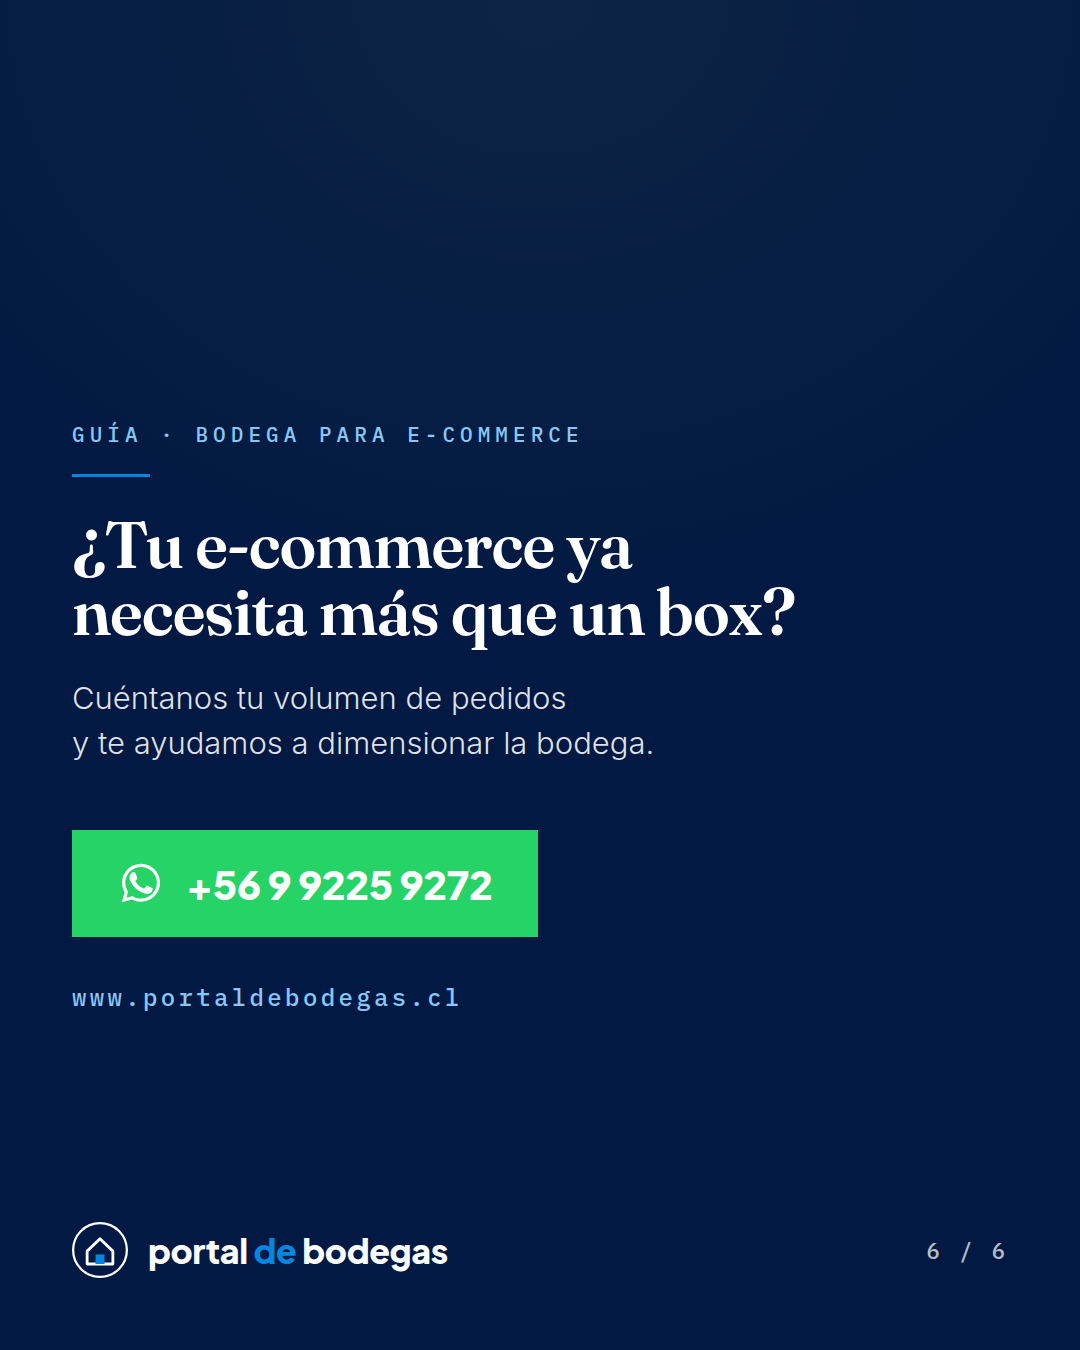
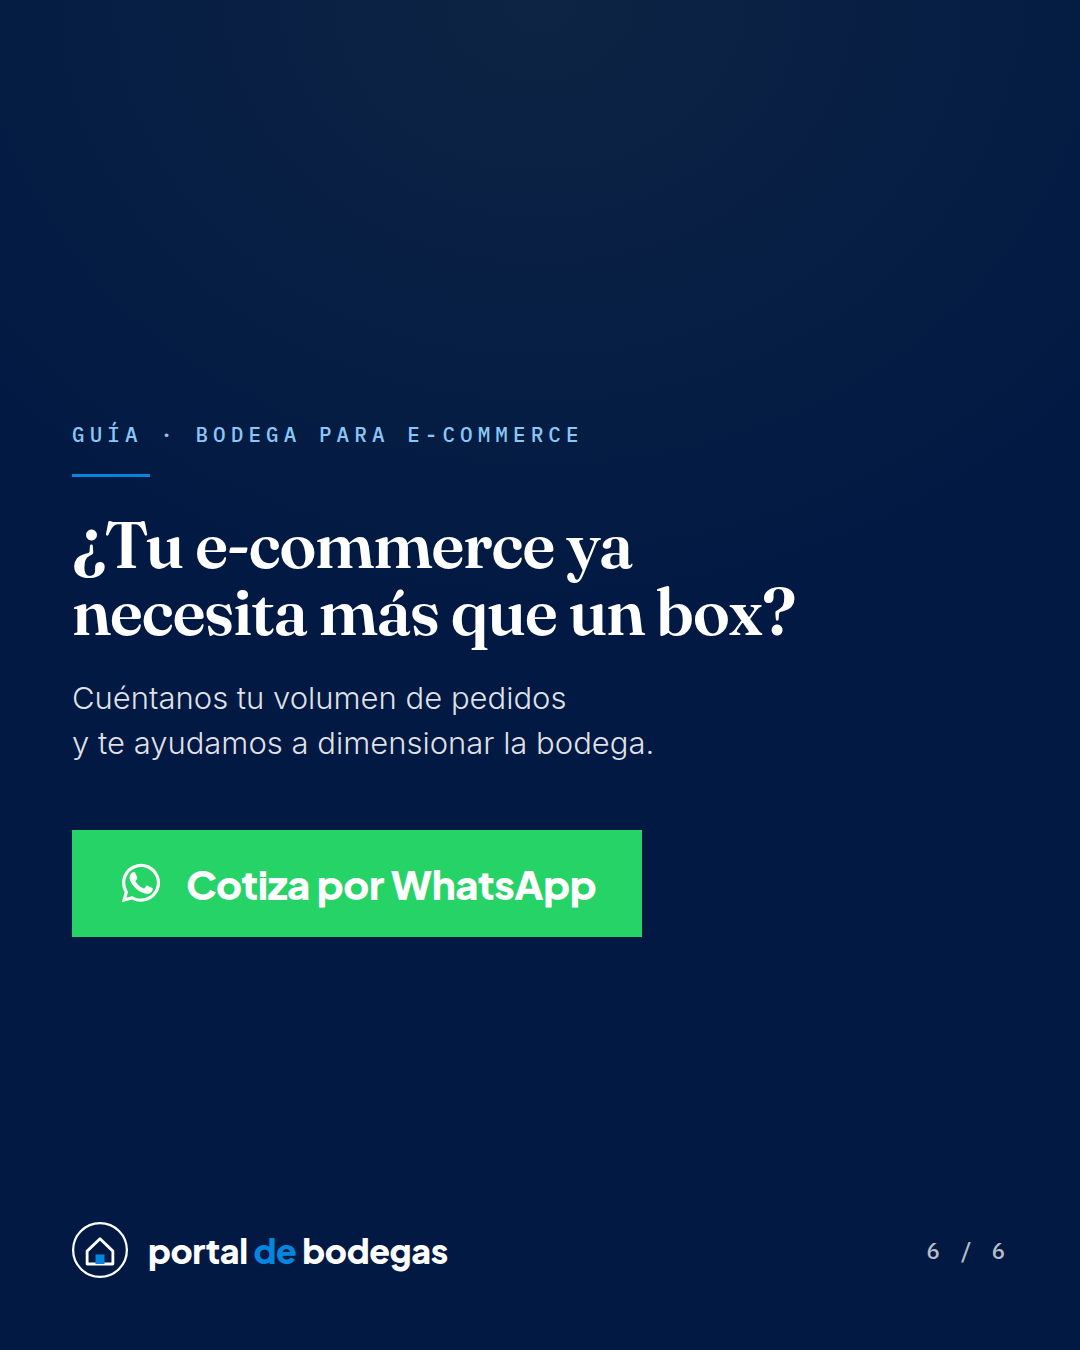
Slides 2 y 3 con datos, y cierre sin teléfono ni web
Slide 2: en vez de dos íconos que solo ilustraban la frase, ahora se
dibuja el fan-out — una entrada consolidada contra muchas salidas
fraccionadas, que es la diferencia operativa real del e-commerce.

Slide 3: en vez de nombrar las zonas (vocabulario evidente), muestra
cuánto espacio ocupa cada una con las cifras ya publicadas en la guía
de cálculo de m² que esta misma guía enlaza — almacenaje 60-70%,
recepción/despacho 10-15%, picking 5-15%, oficina 5-10% — más el
ejemplo concreto de 300 m² de almacenaje → bodega de 420-500 m².

Slide 6: se quita el teléfono y la URL; el botón de WhatsApp es la
única acción, igual que en el post Versus.

Claude-Session: https://claude.ai/code/session_01W7a3UqdkMrKs5FYEeECdXB

Changed region(s): [[0.1833, 0.5911, 0.6111, 0.7156], [0.0611, 0.7156, 0.3667, 0.7467], [0.3972, 0.7156, 0.4278, 0.7467]]

diff --git a/marketing/mockups/ecommerce-set.js b/marketing/mockups/ecommerce-set.js
@@ -114,69 +114,96 @@ const slideCover = () => shell(`
   ${brandRow(false, "1 / 6")}
 </div>`);
 
-// 2 — Concepto: guardar (estático, muted) vs. operar (flujo, navy)
+// 2 — El fan-out: entra consolidado, sale fraccionado. Es la diferencia
+// operativa real entre almacenar y despachar e-commerce, y se puede
+// dibujar — no solo enunciar.
+const FAN_X = 430, FAN_Y = 660;
+const rays = [-27, -18, -9, 0, 9, 18, 27]
+  .map(
+    (deg) => `
+  <div style="position:absolute;left:${FAN_X}px;top:${FAN_Y - 1.5}px;width:290px;height:3px;
+    background:${C.blue};transform:rotate(${deg}deg);transform-origin:left center"></div>
+  <div style="position:absolute;left:${FAN_X}px;top:${FAN_Y - 9}px;width:306px;height:18px;
+    transform:rotate(${deg}deg);transform-origin:left center">
+    <div style="position:absolute;right:0;top:0;width:18px;height:18px;background:${navy};border-radius:2px"></div>
+  </div>`
+  )
+  .join("");
+
 const slideConcept = () => shell(`
 <div class="slide" style="background:#fff">
   ${header("Por qu&eacute; es distinto", NAME)}
   <div style="position:absolute;left:72px;right:72px;top:190px">
-    <h1 style="color:${navy};font-size:58px;line-height:1.18">No es guardar cosas,<br>es operar un negocio</h1>
+    <h1 style="color:${navy};font-size:58px;line-height:1.18">Entra por pallet.<br>Sale por unidad.</h1>
   </div>
 
-  <div style="position:absolute;left:140px;top:580px;width:320px;text-align:center">
-    <div style="display:flex;justify-content:center">${circle(160, C.slate, ICONS.guardar)}</div>
-    <div style="font-family:Inter,sans-serif;font-weight:500;font-size:25px;color:${C.slate};margin-top:34px">Guardar cosas</div>
-  </div>
-  <div style="position:absolute;left:532px;top:650px;width:16px;height:16px;border-radius:50%;background:${C.border}"></div>
-  <div style="position:absolute;left:620px;top:580px;width:320px;text-align:center">
-    <div style="display:flex;justify-content:center">${circle(160, navy, ICONS.operar)}</div>
-    <div style="font-family:Inter,sans-serif;font-weight:600;font-size:25px;color:${navy};margin-top:34px">Operar un negocio</div>
-  </div>
+  <!-- entrada consolidada -->
+  <div style="position:absolute;left:72px;top:${FAN_Y - 4}px;width:96px;height:8px;background:${C.slate}"></div>
+  <div style="position:absolute;left:162px;top:${FAN_Y - 13}px;width:0;height:0;
+    border-top:13px solid transparent;border-bottom:13px solid transparent;border-left:18px solid ${C.slate}"></div>
 
-  <div style="position:absolute;left:72px;right:72px;top:920px;text-align:center">
+  <!-- la bodega -->
+  <div style="position:absolute;left:196px;top:${FAN_Y - 90}px;width:234px;height:180px;background:${navy};
+    border-radius:8px;box-shadow:0 18px 36px rgba(1,25,67,.22)"></div>
+
+  <!-- salida fraccionada -->
+  ${rays}
+
+  <div style="position:absolute;left:72px;right:72px;top:1000px">
     <div style="font-family:Inter,sans-serif;font-weight:400;font-size:29px;color:${C.slate};line-height:1.5">
-      Entra inventario, pero sobre todo sale &mdash; pedido por<br>pedido, todos los d&iacute;as.
+      Una bodega de almacenaje recibe y mueve poco. Una de e-commerce
+      despacha pedido por pedido, todos los d&iacute;as.
     </div>
   </div>
   ${brandRow(false, "2 / 6")}
 </div>`);
 
-// 3 — Flujo (dirección aprobada, con el nuevo relleno de color)
-const node = (n, key, label, x, y, muted) => `
-<div style="position:absolute;left:${x - 68}px;top:${y - 68}px;width:136px;text-align:center">
-  ${circle(136, muted ? C.slate : navy, ICONS[key], n ? numberBadge(n) : "")}
-  <div style="font-family:Inter,sans-serif;font-weight:500;font-size:19px;color:${navy};margin-top:18px">${label}</div>
+// 3 — Cuánto espacio ocupa cada zona. Las cifras salen de la guía de
+// cálculo de m² en lib/guias.js (almacenaje 60–70%, recepción/despacho
+// 10–15%, picking 5–15%, oficina 5–10%), que esta misma guía enlaza.
+// El ancho de cada tramo va al centro de su rango publicado.
+const ZONES = [
+  { label: "Almacenaje", range: "60 &ndash; 70%", w: 65, fill: navy },
+  { label: "Recepci&oacute;n y despacho", range: "10 &ndash; 15%", w: 13, fill: C.blue },
+  { label: "Picking y packing", range: "5 &ndash; 15%", w: 12, fill: "#89c7f6" },
+  { label: "Oficina", range: "5 &ndash; 10%", w: 10, fill: C.slate },
+];
+
+const BAR_L = 72, BAR_W = 936, BAR_T = 470, BAR_H = 128;
+
+const barSegments = () => {
+  let x = 0;
+  return ZONES.map((z, i) => {
+    const w = (z.w / 100) * BAR_W;
+    const seg = `
+    <div style="position:absolute;left:${BAR_L + x}px;top:${BAR_T}px;width:${w}px;height:${BAR_H}px;
+      background:${z.fill};${i === 0 ? "border-radius:8px 0 0 8px;" : ""}${i === ZONES.length - 1 ? "border-radius:0 8px 8px 0;" : ""}"></div>`;
+    x += w;
+    return seg;
+  }).join("");
+};
+
+const legendRow = (z, i) => `
+<div style="position:absolute;left:72px;right:72px;top:${660 + i * 76}px;display:flex;align-items:center;gap:22px">
+  <div style="width:20px;height:20px;background:${z.fill};border-radius:4px;flex:none"></div>
+  <div style="font-family:Inter,sans-serif;font-weight:400;font-size:28px;color:${navy};flex:1">${z.label}</div>
+  <div style="font-family:'IBM Plex Mono',monospace;font-weight:600;font-size:26px;color:${navy}">${z.range}</div>
 </div>`;
-
-const arrow = (x1, x2, y) => `
-<div style="position:absolute;left:${x1}px;top:${y - 1.5}px;width:${x2 - x1}px;height:3px;background:${C.blue}"></div>
-<div style="position:absolute;left:${x2 - 8}px;top:${y - 7}px;width:0;height:0;
-  border-top:7px solid transparent;border-bottom:7px solid transparent;border-left:11px solid ${C.blue}"></div>`;
-
-const FLOW_Y = 530;
-const FLOW_X = [168, 420, 672, 918];
 
 const slideFlow = () => shell(`
 <div class="slide" style="background:#fff">
-  ${header("C&oacute;mo fluye tu operaci&oacute;n", NAME)}
+  ${header("C&oacute;mo se reparte el espacio", NAME)}
   <div style="position:absolute;left:72px;right:72px;top:160px">
-    <h1 style="color:${navy};font-size:52px;line-height:1.18">Del flujo ordenado<br>depende no caer en el caos</h1>
+    <h1 style="color:${navy};font-size:52px;line-height:1.18">El almacenaje no es<br>toda tu bodega</h1>
   </div>
 
-  ${arrow(FLOW_X[0] + 68, FLOW_X[1] - 68, FLOW_Y)}
-  ${arrow(FLOW_X[1] + 68, FLOW_X[2] - 68, FLOW_Y)}
-  ${arrow(FLOW_X[2] + 68, FLOW_X[3] - 68, FLOW_Y)}
+  ${barSegments()}
+  ${ZONES.map(legendRow).join("")}
 
-  ${node(1, "recepcion", "Recepci&oacute;n", FLOW_X[0], FLOW_Y)}
-  ${node(2, "picking", "Picking", FLOW_X[1], FLOW_Y)}
-  ${node(3, "packing", "Packing", FLOW_X[2], FLOW_Y)}
-  ${node(4, "despacho", "Despacho", FLOW_X[3], FLOW_Y)}
-
-  <div style="position:absolute;left:${FLOW_X[3] - 1.5}px;top:${FLOW_Y + 72}px;width:3px;height:110px;
-    background:repeating-linear-gradient(to bottom, ${C.slate} 0 7px, transparent 7px 14px)"></div>
-  ${node(null, "devoluciones", "Devoluciones", FLOW_X[3], FLOW_Y + 250, true)}
-  <div style="position:absolute;left:${FLOW_X[3] - 150}px;top:${FLOW_Y + 400}px;width:300px;text-align:center">
-    <div style="font-family:Inter,sans-serif;font-weight:400;font-size:18px;color:${C.slate};line-height:1.4">
-      Aparte, para no mezclarlo con lo que s&iacute; est&aacute; listo para vender
+  <div style="position:absolute;left:72px;right:72px;top:${660 + ZONES.length * 76 + 36}px;
+    border-top:2px solid ${C.border};padding-top:32px">
+    <div style="font-family:Inter,sans-serif;font-weight:400;font-size:27px;color:${C.slate};line-height:1.45">
+      Si tu c&aacute;lculo da 300 m&sup2; de almacenaje,<br>busca una bodega de 420 a 500 m&sup2;.
     </div>
   </div>
   ${brandRow(false, "3 / 6")}
@@ -253,11 +280,7 @@ const slideCta = () => shell(`
     <div class="rule"></div>
     <h1 style="font-size:66px">&iquest;Tu e-commerce ya<br>necesita m&aacute;s que un box?</h1>
     <div class="sub" style="margin-top:30px">Cu&eacute;ntanos tu volumen de pedidos<br>y te ayudamos a dimensionar la bodega.</div>
-    ${whatsappButton("+56 9 9225 9272")}
-    <div style="font-family:'IBM Plex Mono',monospace;font-weight:500;font-size:24px;
-                letter-spacing:.14em;color:${C.blueLight};margin-top:44px">
-      www.portaldebodegas.cl
-    </div>
+    ${whatsappButton("Cotiza por WhatsApp")}
   </div>
   ${brandRow(true, "6 / 6")}
 </div>`);
